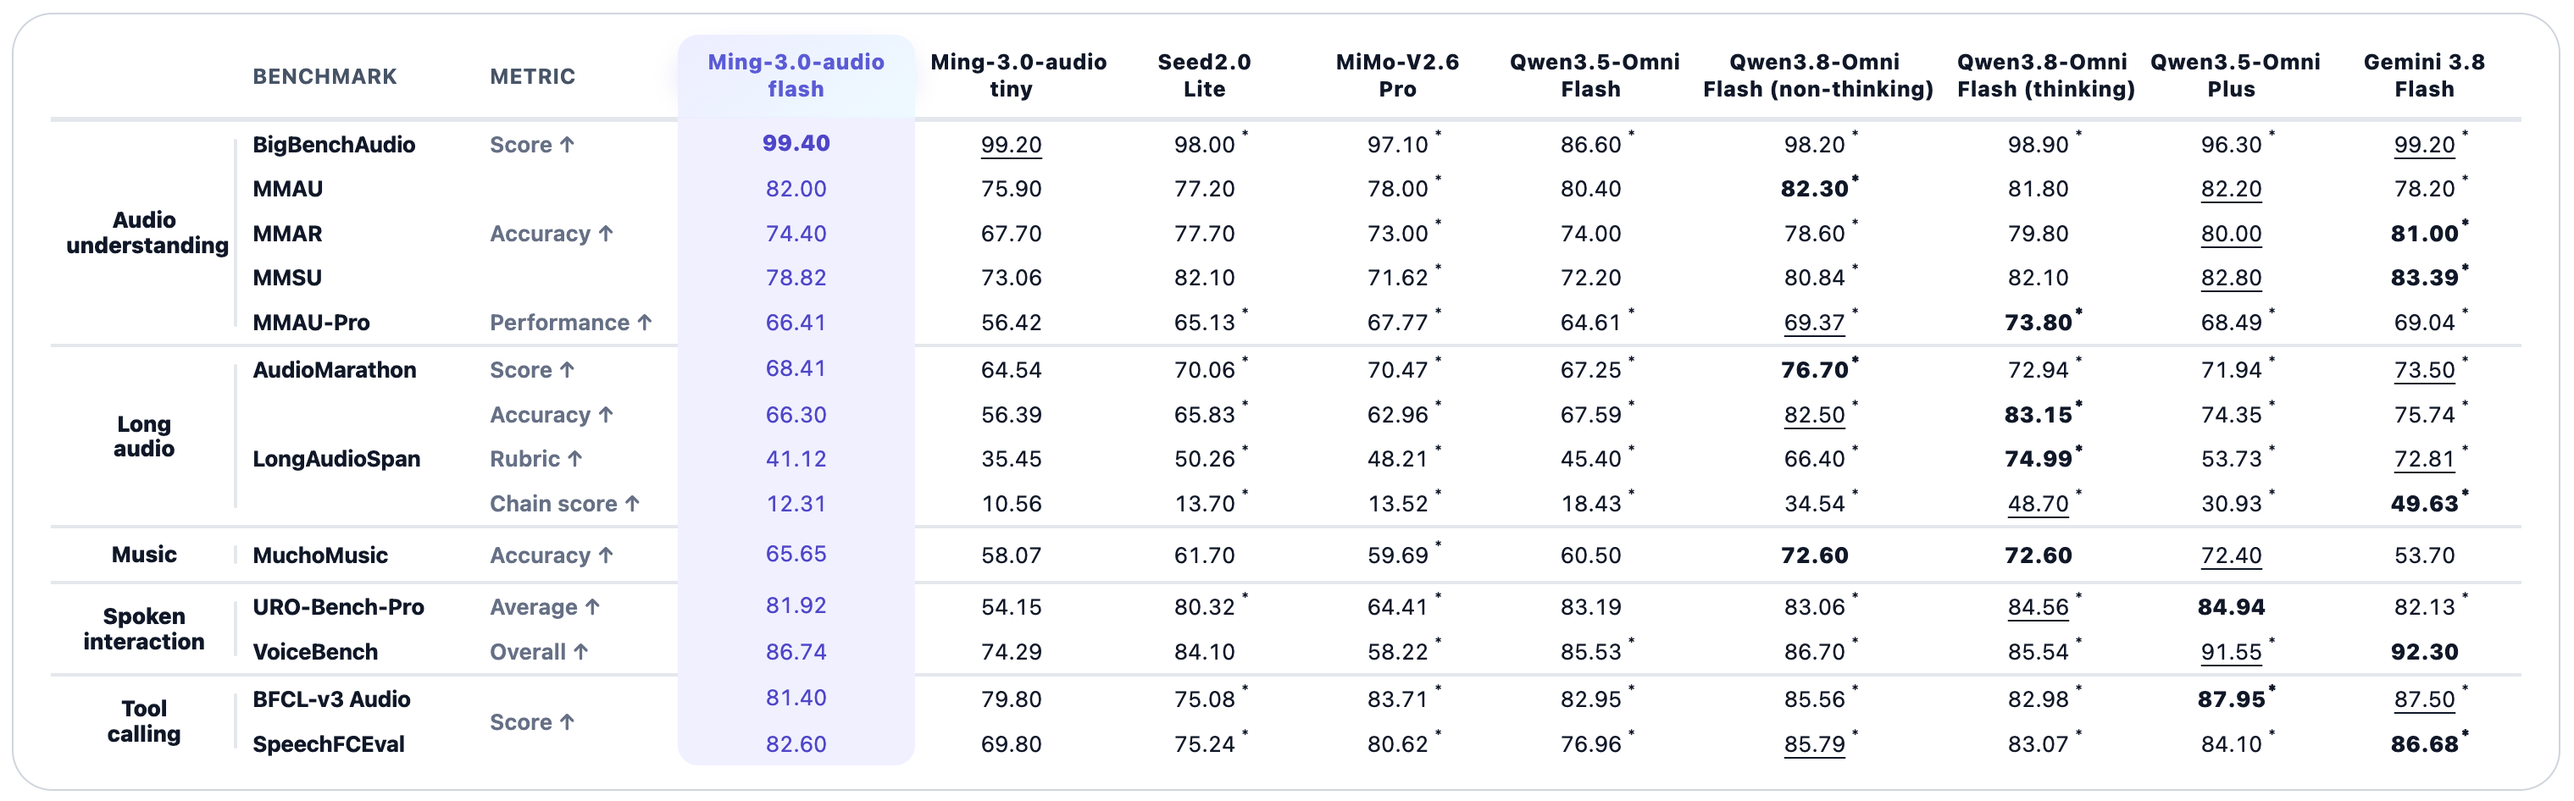
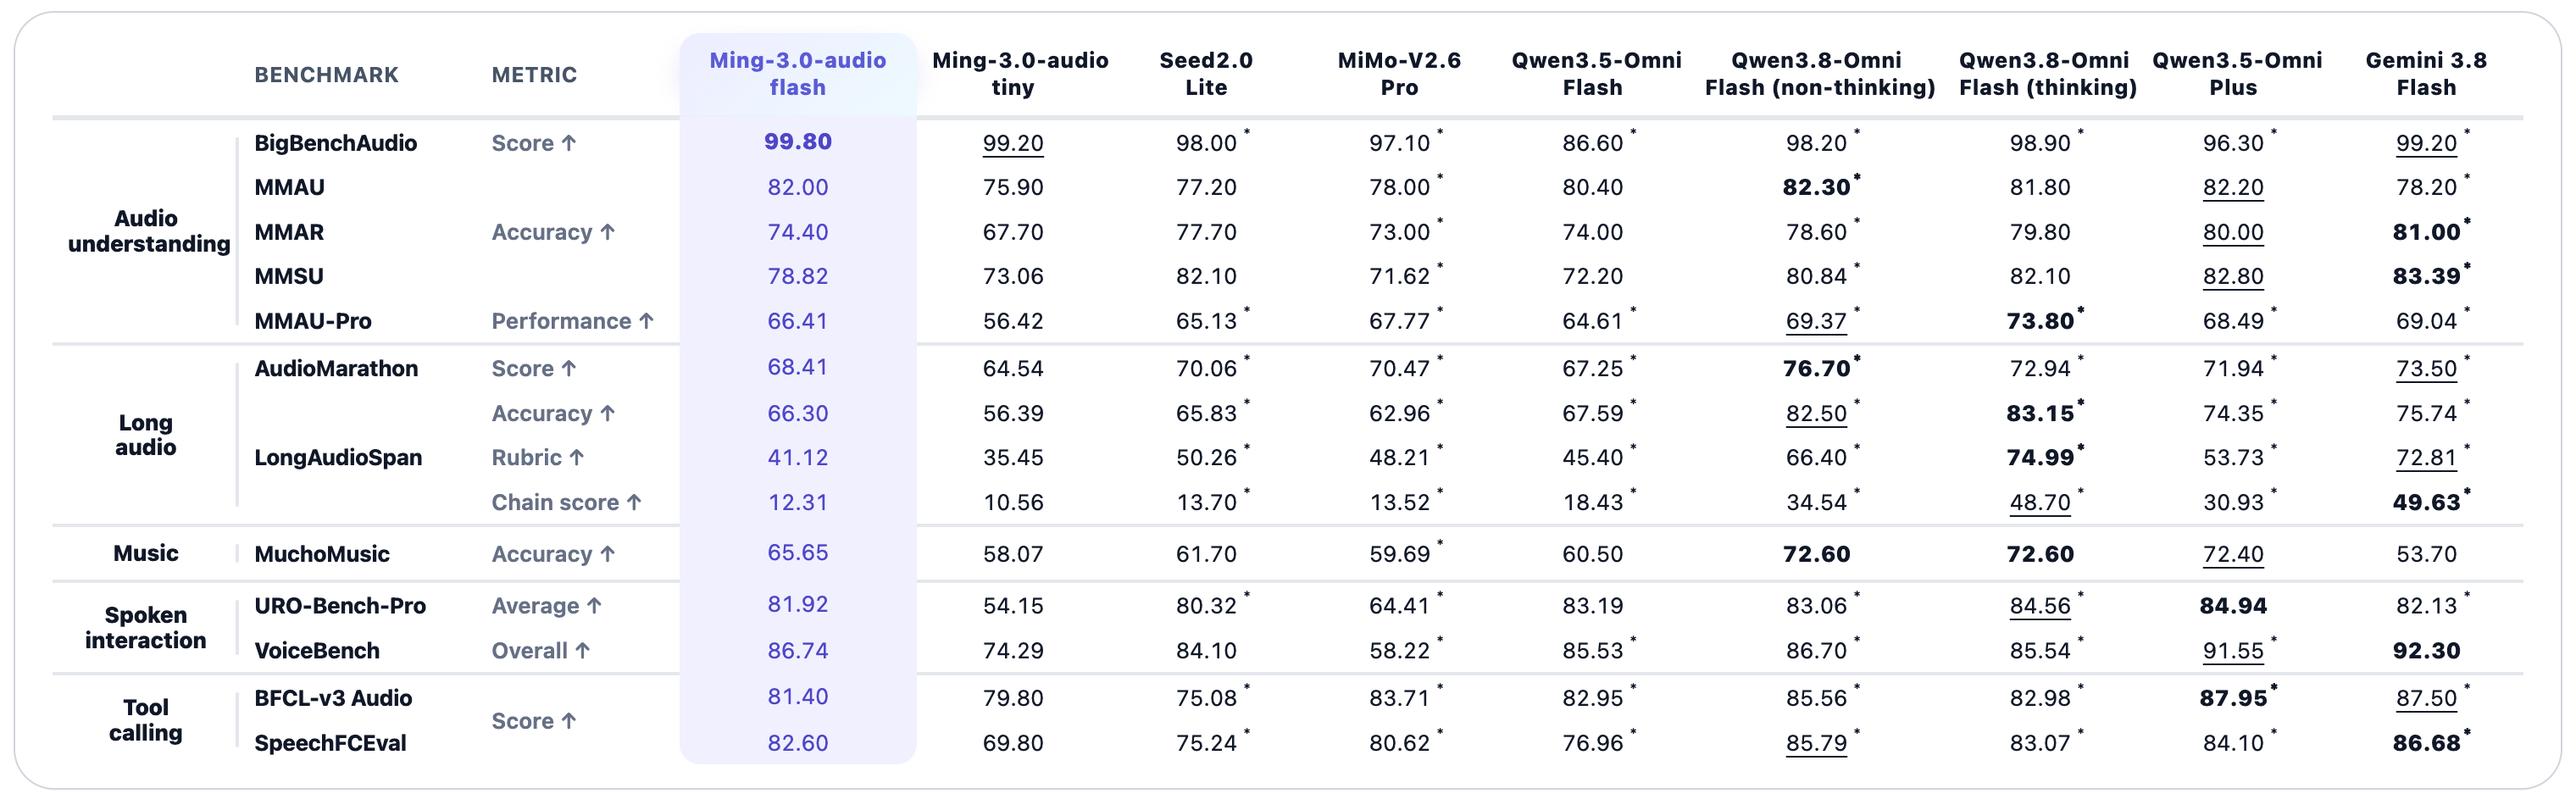
Add BBA leaderboard showing Flash ranks first overall with a 99.8% score

diff --git a/README.md b/README.md
@@ -46,6 +46,12 @@ Ming-3.0-audio-flash closes the loop from **hearing the sound**, to **understand
 
 All scores are reported as percentages. ↑ means higher is better, while ↓ means lower is better. Ming-3.0-audio-flash is evaluated in non-thinking mode. **Bold** indicates the best result, <u>underlined</u> indicates the second-best result, and an asterisk (`*`) indicates results obtained in our own evaluation.
 
+### Speech Reasoning (Big Bench Audio)
+
+Ming-3.0-audio-flash achieves **99.8%** on Artificial Analysis's Big Bench Audio benchmark, ranking **#1 overall among all closed-source and open-source models** on the leaderboard shown below.
+
+![Artificial Analysis Speech Reasoning (Big Bench Audio) leaderboard](assets/Artificial_Analysis_Speech_Reasoning.png)
+
 ### Speech Recognition
 
 ![ASR benchmark results](assets/benchmark-asr.png)
